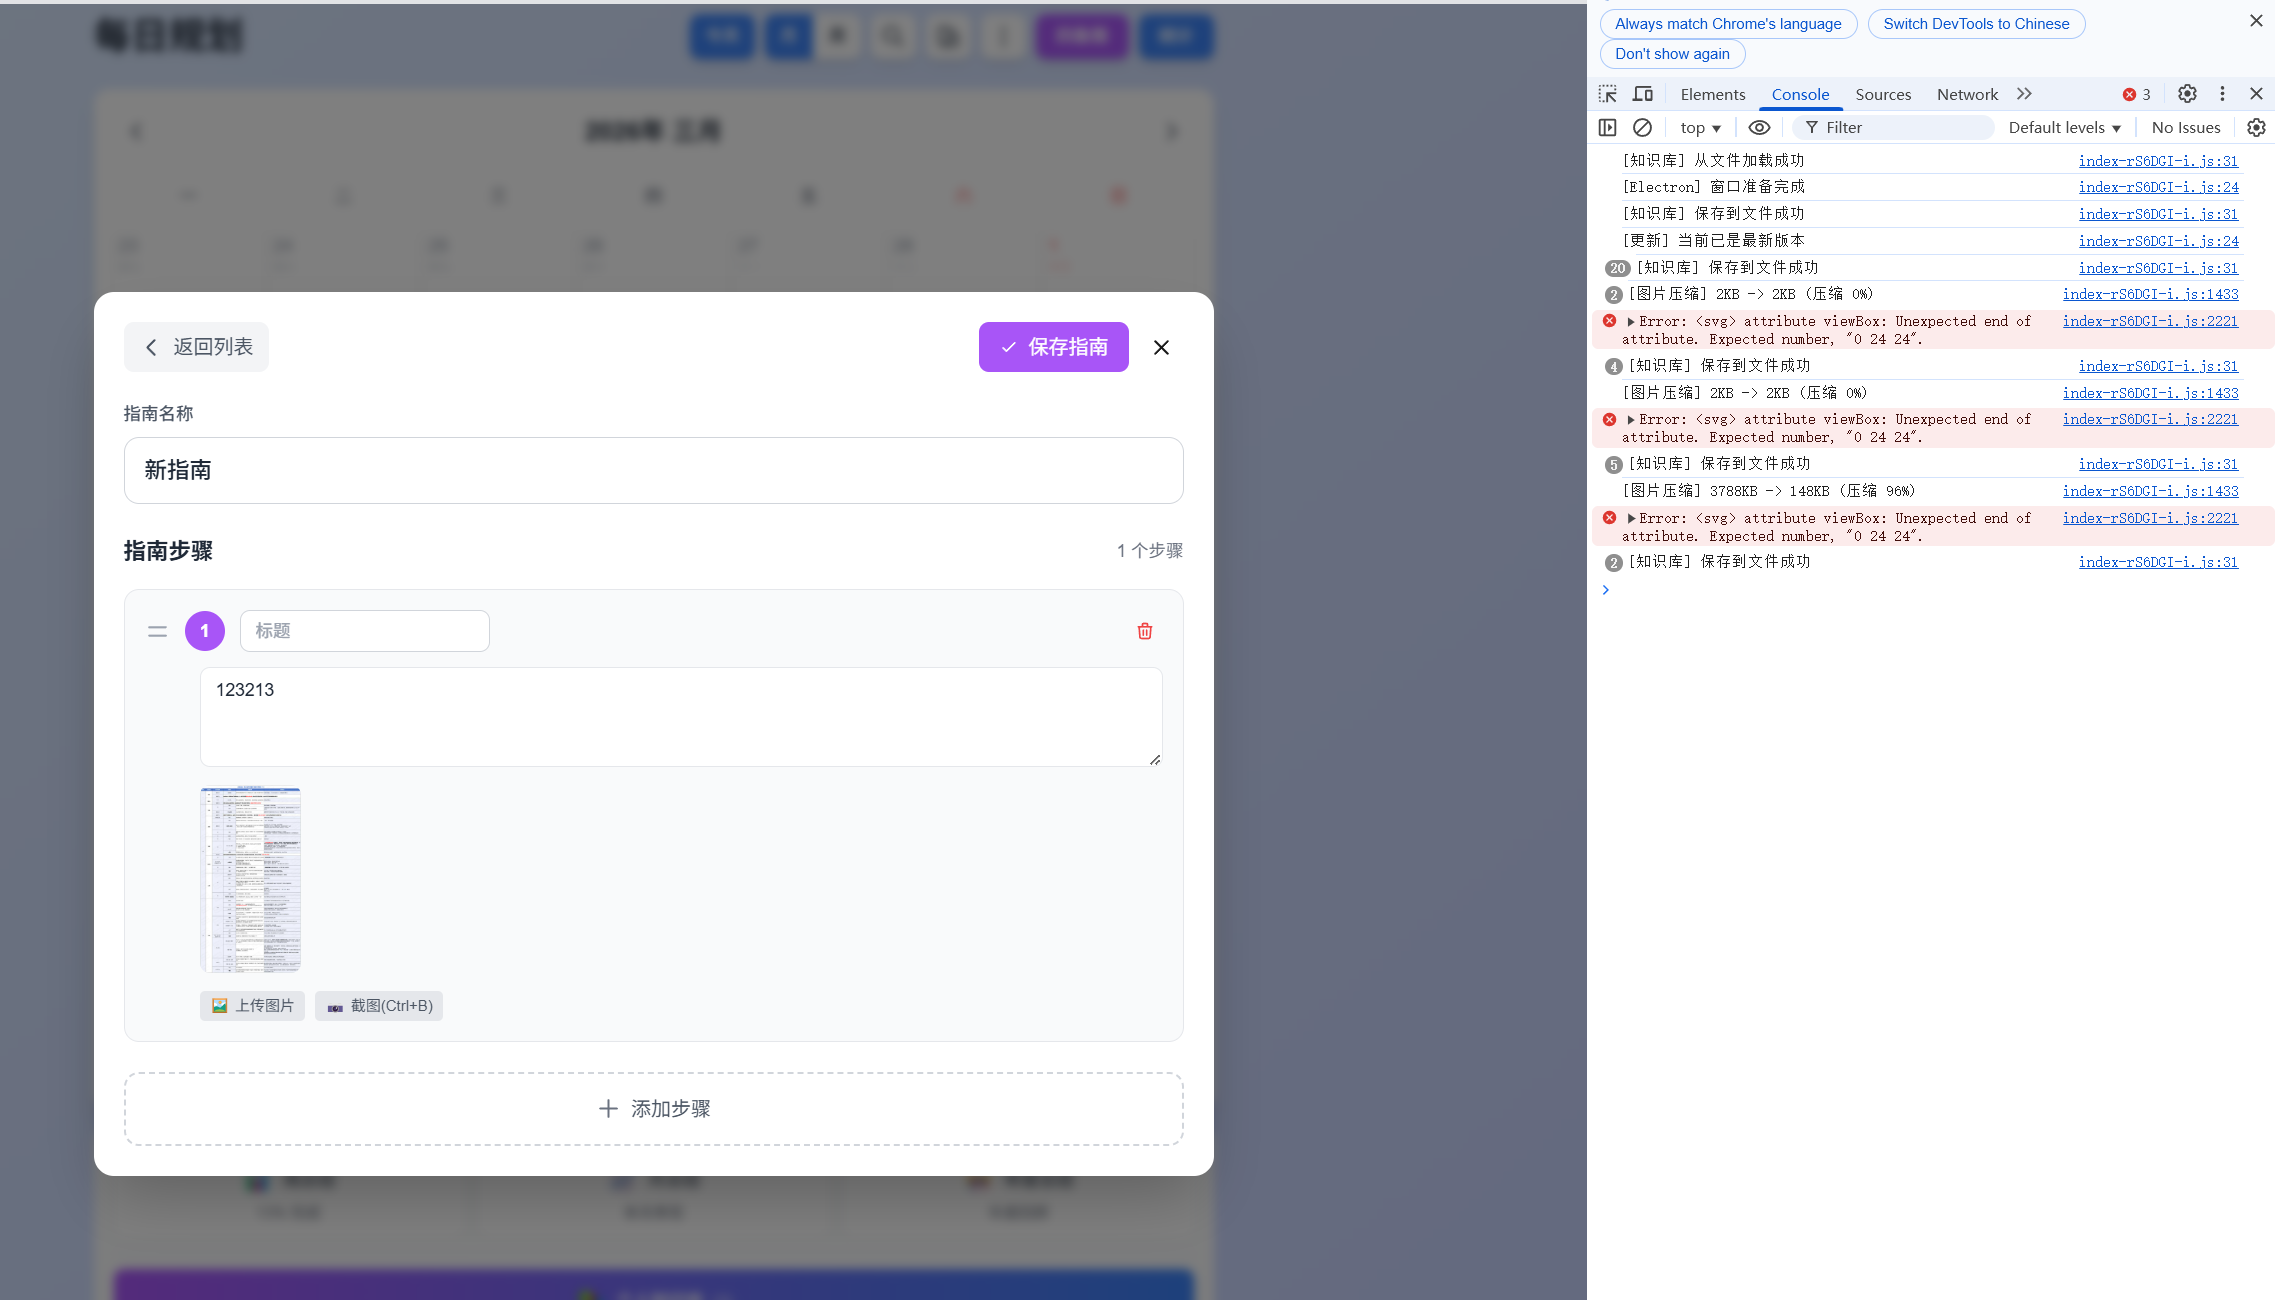
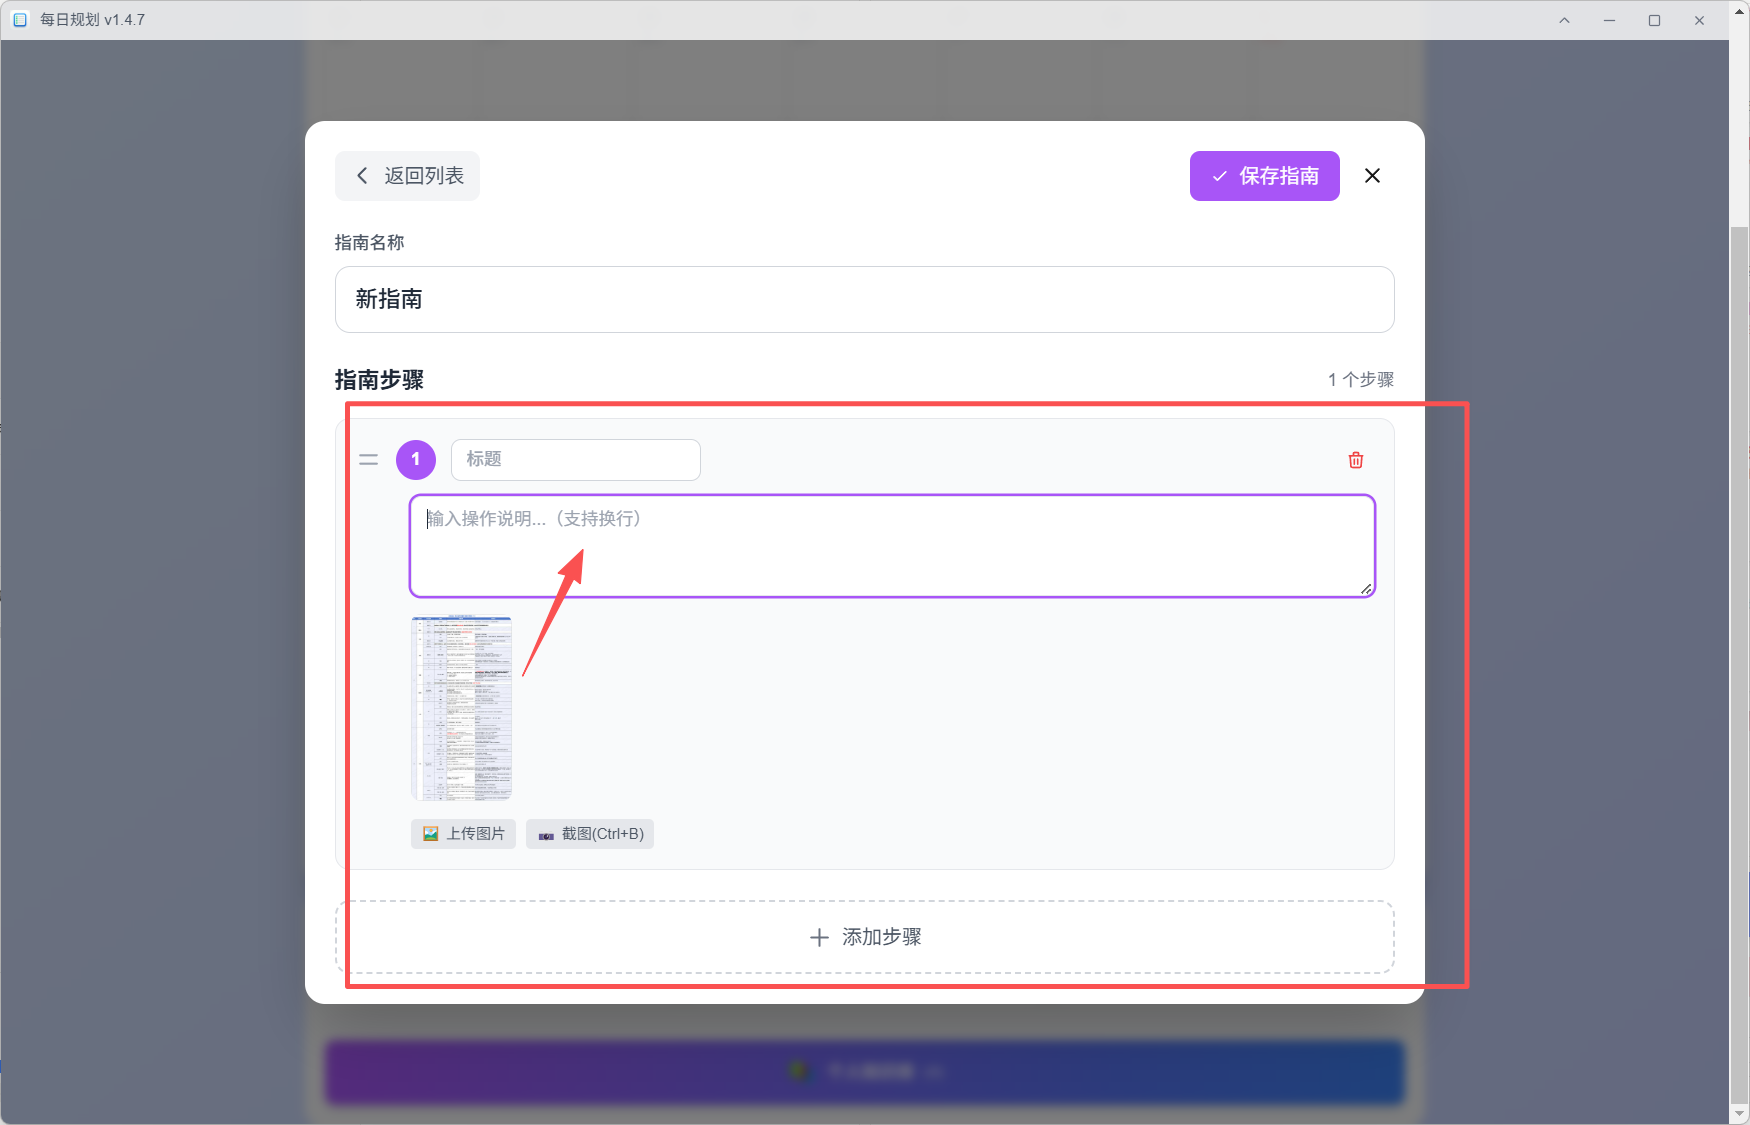
auto saved your changes before restore
Coze-Commit-Type: auto

diff --git a/src/main.ts b/src/main.ts
@@ -2038,21 +2038,36 @@ class DailyPlanner {
     }
   }
 
-  // 从 contenteditable 保存步骤内容（已废弃，保留兼容）
+  // 从 contenteditable 保存步骤内容
   public saveStepContentFromEditable(stepId: string): void {
-    this.saveStepTextarea(stepId);
-  }
-
-  // 从 textarea 保存步骤内容
-  public saveStepTextarea(stepId: string): void {
-    const textarea = document.getElementById(`step-content-${stepId}`) as HTMLTextAreaElement;
-    if (!textarea || !this.currentGuide) return;
+    const editor = document.getElementById(`step-content-${stepId}`);
+    if (!editor || !this.currentGuide) return;
     
     const step = this.currentGuide.steps.find(s => s.id === stepId);
     if (step) {
-      step.content = textarea.value;
+      // 克隆编辑器
+      const clone = editor.cloneNode(true) as HTMLElement;
+      
+      // 获取图片
+      const img = clone.querySelector('img');
+      if (img) {
+        step.imageUrl = img.src;
+        // 移除图片，只保留文字
+        img.parentElement?.remove();
+      } else {
+        step.imageUrl = undefined;
+      }
+      
+      // 获取纯文本内容（保留换行）
+      step.content = clone.innerText || '';
+      
       this.saveCurrentGuide();
     }
+  }
+
+  // 从 textarea 保存步骤内容（兼容旧调用）
+  public saveStepTextarea(stepId: string): void {
+    this.saveStepContentFromEditable(stepId);
   }
 
   // 输入时处理（用于实时保存焦点状态）
@@ -2060,30 +2075,6 @@ class DailyPlanner {
     this.setFocusedStep(stepId);
   }
 
-  // 插入图片到步骤（直接更新数据并重新渲染）
-  public insertImageToStep(stepId: string, imageUrl: string): void {
-    // 先保存当前 textarea 的内容
-    const textarea = document.getElementById(`step-content-${stepId}`) as HTMLTextAreaElement;
-    if (textarea && this.currentGuide) {
-      const step = this.currentGuide.steps.find(s => s.id === stepId);
-      if (step) {
-        step.content = textarea.value;
-        step.imageUrl = imageUrl;
-        this.saveCurrentGuide();
-        this.render();
-      }
-    } else {
-      // 如果 textarea 不存在，直接更新数据
-      this.updateStepImageData(stepId, imageUrl);
-    }
-  }
-
-  // 显示图片操作菜单（已废弃，改为在放大弹窗中删除）
-  public showImageActions(stepId: string, imageUrl: string): void {
-    // 直接放大图片
-    this.enlargeImage(imageUrl, stepId);
-  }
-  
   // 放大图片
   public enlargeImage(imageUrl: string, stepId?: string): void {
     this.enlargedImageUrl = imageUrl;
@@ -2108,14 +2099,23 @@ class DailyPlanner {
     }
   }
 
-  // 从编辑区域删除图片（直接更新数据并重新渲染）
+  // 从编辑区域删除图片
   public removeStepImageFromEditor(stepId: string): void {
+    const editor = document.getElementById(`step-content-${stepId}`);
+    if (editor) {
+      // 移除编辑区域中的图片
+      const img = editor.querySelector('img');
+      if (img) {
+        img.parentElement?.remove();
+      }
+    }
+    
+    // 更新数据
     if (this.currentGuide) {
       const step = this.currentGuide.steps.find(s => s.id === stepId);
       if (step) {
         step.imageUrl = undefined;
         this.saveCurrentGuide();
-        this.render();
       }
     }
   }
@@ -5794,28 +5794,18 @@ class DailyPlanner {
                       </div>
                     </div>
                     
-                    <!-- 操作说明和图片 -->
+                    <!-- 操作说明和图片（图文混排编辑区域） -->
                     <div class="ml-11">
-                      <!-- textarea 编辑区域，支持换行 -->
-                      <textarea id="step-content-${step.id}"
-                                data-step-id="${step.id}"
-                                class="w-full min-h-[80px] px-3 py-2 text-sm rounded-lg border ${isDark ? 'border-gray-600 bg-gray-800 text-gray-100' : 'border-gray-200 bg-white text-gray-800'} focus:outline-none focus:ring-2 focus:ring-purple-500 resize-y"
-                                onfocus="planner.setFocusedStep('${step.id}')"
-                                onblur="planner.saveStepTextarea('${step.id}')"
-                                oninput="planner.onStepContentInput('${step.id}')"
-                                placeholder="输入操作说明...（支持换行）">${step.content || ''}</textarea>
-                      
-                      <!-- 图片显示区域 -->
-                      ${step.imageUrl ? `
-                      <div class="relative inline-block image-wrapper mt-2">
-                        <img src="${step.imageUrl}" class="inline-image" data-image-id="${step.id}" style="max-width:100%;max-height:150px;display:block;border-radius:8px;cursor:pointer;" onclick="event.stopPropagation();" ondblclick="event.stopPropagation(); planner.enlargeImage('${step.imageUrl}', '${step.id}')">
-                        <button class="absolute top-1 right-1 p-1 bg-red-500 hover:bg-red-600 text-white rounded-full opacity-0 transition-opacity image-delete-btn" style="width:20px;height:20px;display:flex;align-items:center;justify-content:center;" onclick="event.stopPropagation(); planner.removeStepImageFromEditor('${step.id}')" title="删除图片">
-                          <svg class="w-3 h-3" fill="none" stroke="currentColor" viewBox="0 24 24">
-                            <path stroke-linecap="round" stroke-linejoin="round" stroke-width="2" d="M6 18L18 6M6 6l12 12"/>
-                          </svg>
-                        </button>
-                      </div>
-                      ` : ''}
+                      <!-- contenteditable 编辑区域，支持图文混排和换行 -->
+                      <div contenteditable="true"
+                           id="step-content-${step.id}"
+                           data-step-id="${step.id}"
+                           class="w-full min-h-[80px] px-3 py-2 text-sm rounded-lg border ${isDark ? 'border-gray-600 bg-gray-800 text-gray-100' : 'border-gray-200 bg-white text-gray-800'} focus:outline-none focus:ring-2 focus:ring-purple-500 overflow-auto"
+                           style="white-space: pre-wrap; word-wrap: break-word;"
+                           onfocus="planner.setFocusedStep('${step.id}')"
+                           onblur="planner.saveStepContentFromEditable('${step.id}')"
+                           oninput="planner.onStepContentInput('${step.id}')"
+                           placeholder="输入操作说明...（支持换行）">${step.content || ''}${step.imageUrl ? `<div class="inline-block relative mt-2"><img src="${step.imageUrl}" class="inline-image" data-image-id="${step.id}" style="max-width:100%;max-height:200px;border-radius:8px;cursor:pointer;" onclick="event.stopPropagation();" ondblclick="event.stopPropagation(); planner.enlargeImage('${step.imageUrl}', '${step.id}')"><button class="absolute top-1 right-1 p-1 bg-red-500 hover:bg-red-600 text-white rounded-full opacity-0 transition-opacity image-delete-btn" style="width:20px;height:20px;display:flex;align-items:center;justify-content:center;" onclick="event.stopPropagation(); planner.removeStepImageFromEditor('${step.id}')" title="删除图片"><svg class="w-3 h-3" fill="none" stroke="currentColor" viewBox="0 0 24 24"><path stroke-linecap="round" stroke-linejoin="round" stroke-width="2" d="M6 18L18 6M6 6l12 12"/></svg></button></div>` : ''}</div>
                       
                       <!-- 图片操作按钮 -->
                       <div class="mt-2 flex gap-2">
@@ -5920,20 +5910,47 @@ class DailyPlanner {
     // 先压缩图片
     const compressedImage = await this.compressImage(imageUrl);
     
-    // 保存当前 textarea 的内容
-    const textarea = document.getElementById(`step-content-${stepId}`) as HTMLTextAreaElement;
-    if (textarea) {
-      step.content = textarea.value;
+    // 获取编辑区域
+    const editor = document.getElementById(`step-content-${stepId}`);
+    if (editor) {
+      // 先保存当前文字内容
+      const clone = editor.cloneNode(true) as HTMLElement;
+      const existingImg = clone.querySelector('img');
+      if (existingImg) {
+        existingImg.parentElement?.remove();
+      }
+      step.content = clone.innerText || '';
+      
+      // 移除编辑区域中的现有图片
+      const existingImgInEditor = editor.querySelector('img');
+      if (existingImgInEditor) {
+        existingImgInEditor.parentElement?.remove();
+      }
+      
+      // 在编辑区域末尾插入新图片
+      const imgWrapper = document.createElement('div');
+      imgWrapper.className = 'inline-block relative mt-2';
+      imgWrapper.innerHTML = `
+        <img src="${compressedImage}" class="inline-image" data-image-id="${stepId}" style="max-width:100%;max-height:200px;border-radius:8px;cursor:pointer;" onclick="event.stopPropagation();" ondblclick="event.stopPropagation(); planner.enlargeImage('${compressedImage}', '${stepId}')">
+        <button class="absolute top-1 right-1 p-1 bg-red-500 hover:bg-red-600 text-white rounded-full opacity-0 transition-opacity image-delete-btn" style="width:20px;height:20px;display:flex;align-items:center;justify-content:center;" onclick="event.stopPropagation(); planner.removeStepImageFromEditor('${stepId}')" title="删除图片">
+          <svg class="w-3 h-3" fill="none" stroke="currentColor" viewBox="0 0 24 24">
+            <path stroke-linecap="round" stroke-linejoin="round" stroke-width="2" d="M6 18L18 6M6 6l12 12"/>
+          </svg>
+        </button>
+      `;
+      editor.appendChild(imgWrapper);
+      
+      // 更新数据
+      step.imageUrl = compressedImage;
+      this.saveCurrentGuide();
+      
+      console.log('图片已插入到步骤编辑区域:', stepId);
+    } else {
+      // 如果编辑区域不存在，直接更新数据并重新渲染
+      step.imageUrl = compressedImage;
+      this.saveCurrentGuide();
+      this.render();
     }
-    
-    // 设置图片 URL
-    step.imageUrl = compressedImage;
-    
-    // 保存并重新渲染
-    this.saveCurrentGuide();
-    this.render();
-    
-    console.log('图片已插入到步骤:', stepId);
   }
   
   // 压缩图片
